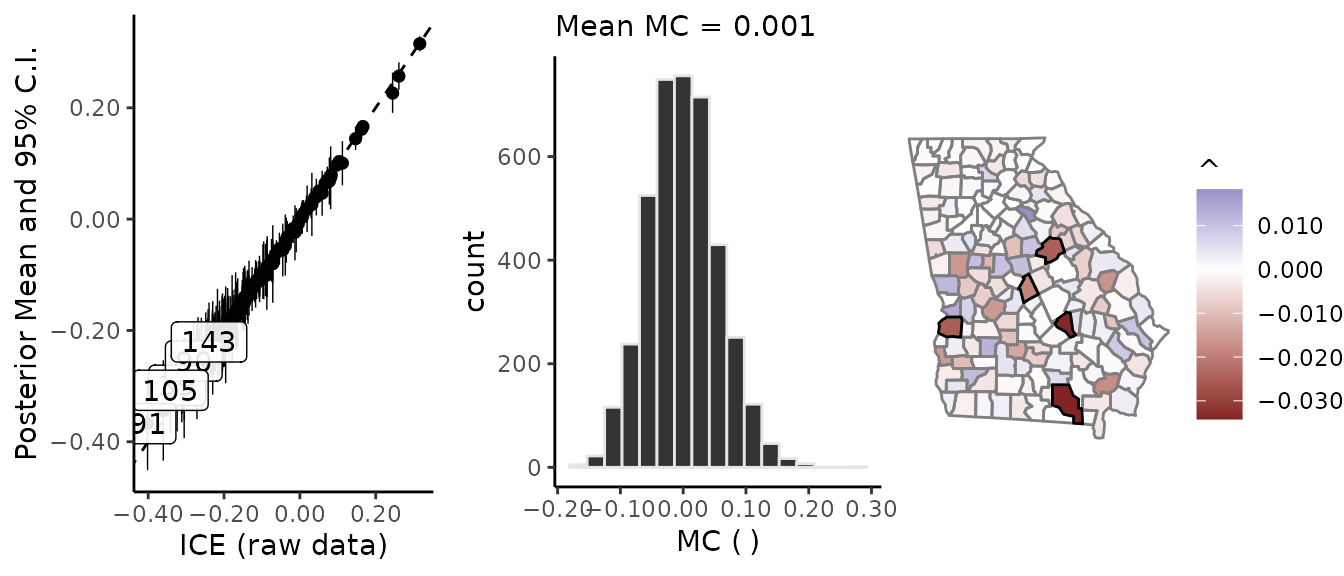
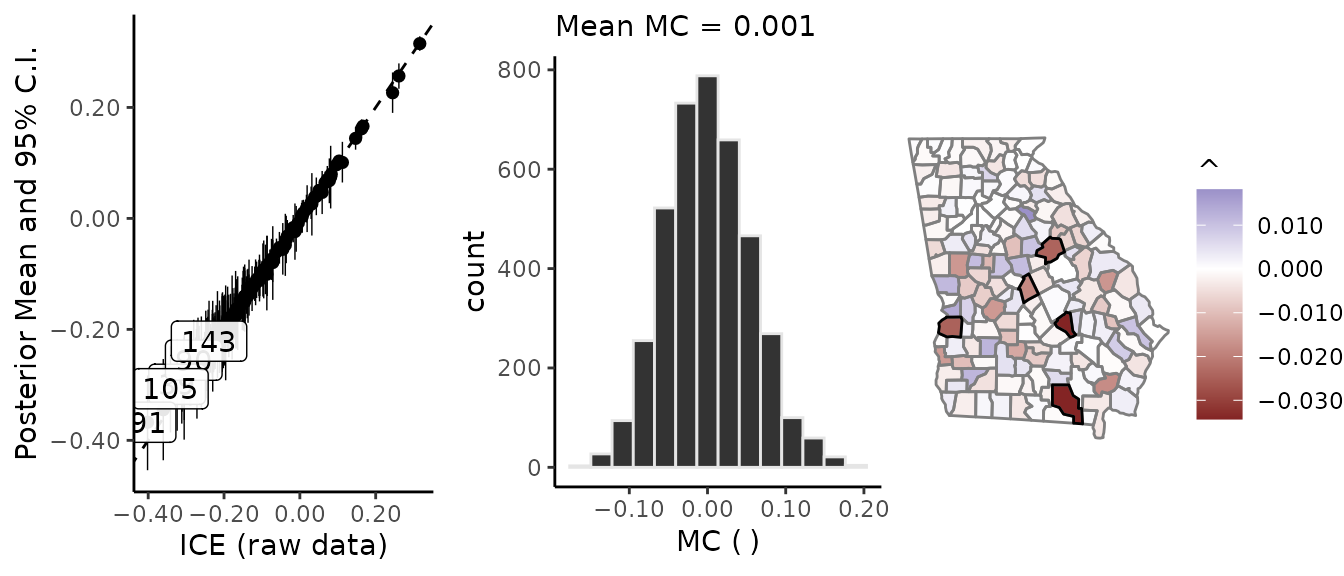
compiled vignette

diff --git a/docs/articles/spatial-me-models.html b/docs/articles/spatial-me-models.html
@@ -221,8 +221,8 @@
 ## 
 ## SAMPLING FOR MODEL 'foundation' NOW (CHAIN 1).
 ## Chain 1: 
-## Chain 1: Gradient evaluation took 0.000118 seconds
-## Chain 1: 1000 transitions using 10 leapfrog steps per transition would take 1.18 seconds.
+## Chain 1: Gradient evaluation took 0.00017 seconds
+## Chain 1: 1000 transitions using 10 leapfrog steps per transition would take 1.7 seconds.
 ## Chain 1: Adjust your expectations accordingly!
 ## Chain 1: 
 ## Chain 1: 
@@ -231,15 +231,15 @@
 ## Chain 1: Iteration: 1001 / 2000 [ 50%]  (Sampling)
 ## Chain 1: Iteration: 2000 / 2000 [100%]  (Sampling)
 ## Chain 1: 
-## Chain 1:  Elapsed Time: 1.29673 seconds (Warm-up)
-## Chain 1:                1.18586 seconds (Sampling)
-## Chain 1:                2.48259 seconds (Total)
+## Chain 1:  Elapsed Time: 2.20836 seconds (Warm-up)
+## Chain 1:                1.5902 seconds (Sampling)
+## Chain 1:                3.79855 seconds (Total)
 ## Chain 1: 
 ## 
 ## SAMPLING FOR MODEL 'foundation' NOW (CHAIN 2).
 ## Chain 2: 
-## Chain 2: Gradient evaluation took 9.7e-05 seconds
-## Chain 2: 1000 transitions using 10 leapfrog steps per transition would take 0.97 seconds.
+## Chain 2: Gradient evaluation took 0.000128 seconds
+## Chain 2: 1000 transitions using 10 leapfrog steps per transition would take 1.28 seconds.
 ## Chain 2: Adjust your expectations accordingly!
 ## Chain 2: 
 ## Chain 2: 
@@ -248,15 +248,15 @@
 ## Chain 2: Iteration: 1001 / 2000 [ 50%]  (Sampling)
 ## Chain 2: Iteration: 2000 / 2000 [100%]  (Sampling)
 ## Chain 2: 
-## Chain 2:  Elapsed Time: 1.50522 seconds (Warm-up)
-## Chain 2:                1.18719 seconds (Sampling)
-## Chain 2:                2.6924 seconds (Total)
+## Chain 2:  Elapsed Time: 1.90231 seconds (Warm-up)
+## Chain 2:                1.60992 seconds (Sampling)
+## Chain 2:                3.51223 seconds (Total)
 ## Chain 2: 
 ## 
 ## SAMPLING FOR MODEL 'foundation' NOW (CHAIN 3).
 ## Chain 3: 
-## Chain 3: Gradient evaluation took 0.000162 seconds
-## Chain 3: 1000 transitions using 10 leapfrog steps per transition would take 1.62 seconds.
+## Chain 3: Gradient evaluation took 0.000187 seconds
+## Chain 3: 1000 transitions using 10 leapfrog steps per transition would take 1.87 seconds.
 ## Chain 3: Adjust your expectations accordingly!
 ## Chain 3: 
 ## Chain 3: 
@@ -265,15 +265,15 @@
 ## Chain 3: Iteration: 1001 / 2000 [ 50%]  (Sampling)
 ## Chain 3: Iteration: 2000 / 2000 [100%]  (Sampling)
 ## Chain 3: 
-## Chain 3:  Elapsed Time: 1.68111 seconds (Warm-up)
-## Chain 3:                1.2015 seconds (Sampling)
-## Chain 3:                2.88261 seconds (Total)
+## Chain 3:  Elapsed Time: 1.85171 seconds (Warm-up)
+## Chain 3:                1.40342 seconds (Sampling)
+## Chain 3:                3.25513 seconds (Total)
 ## Chain 3: 
 ## 
 ## SAMPLING FOR MODEL 'foundation' NOW (CHAIN 4).
 ## Chain 4: 
-## Chain 4: Gradient evaluation took 9.9e-05 seconds
-## Chain 4: 1000 transitions using 10 leapfrog steps per transition would take 0.99 seconds.
+## Chain 4: Gradient evaluation took 0.000111 seconds
+## Chain 4: 1000 transitions using 10 leapfrog steps per transition would take 1.11 seconds.
 ## Chain 4: Adjust your expectations accordingly!
 ## Chain 4: 
 ## Chain 4: 
@@ -282,9 +282,9 @@
 ## Chain 4: Iteration: 1001 / 2000 [ 50%]  (Sampling)
 ## Chain 4: Iteration: 2000 / 2000 [100%]  (Sampling)
 ## Chain 4: 
-## Chain 4:  Elapsed Time: 1.61822 seconds (Warm-up)
-## Chain 4:                1.20999 seconds (Sampling)
-## Chain 4:                2.82822 seconds (Total)
+## Chain 4:  Elapsed Time: 1.85636 seconds (Warm-up)
+## Chain 4:                1.8386 seconds (Sampling)
+## Chain 4:                3.69496 seconds (Total)
 ## Chain 4:</code></pre>
 <p>Note that <code>prior_only = TRUE</code> will prevent <code>stan_glm</code> from considering the likelihood of the outcome, <code>log(rate.male)</code>; to facilitate a valid workflow, the entire ME model is treated as part of the “prior” by <code>prior_only</code>. This allows us to understand the properties of the ME model itself, considered independently from any outcome variable.</p>
 </div>
@@ -317,23 +317,23 @@
 <code class="sourceCode R"><span class="fu"><a href="../reference/me_diag.html">me_diag</a></span><span class="op">(</span><span class="va">fit</span>, <span class="st">'ICE'</span>, <span class="va">georgia</span>, index <span class="op">=</span> <span class="fl">5</span><span class="op">)</span></code></pre></div>
 <pre><code>## Identifying the top 5 observations as ordered by their Delta values (Delta = posterior mean of x - raw x value):</code></pre>
 <pre><code>##                 x.raw       x.mu      x.lwr      x.upr       Delta
-## x_ICE[91]  -0.4016787 -0.3674858 -0.4511550 -0.2837050 -0.03419285
-## x_ICE[105] -0.3412494 -0.3075664 -0.3849684 -0.2285629 -0.03368298
-## x_ICE[39]  -0.3236583 -0.2985129 -0.3814802 -0.2157464 -0.02514534
-## x_ICE[90]  -0.2798395 -0.2550659 -0.3276095 -0.1852030 -0.02477361
-## x_ICE[143] -0.2395249 -0.2206520 -0.2891585 -0.1498940 -0.01887287</code></pre>
+## x_ICE[91]  -0.4016787 -0.3673625 -0.4538293 -0.2830203 -0.03431619
+## x_ICE[105] -0.3412494 -0.3069745 -0.3857929 -0.2304210 -0.03427485
+## x_ICE[39]  -0.3236583 -0.2989770 -0.3826309 -0.2172894 -0.02468124
+## x_ICE[90]  -0.2798395 -0.2555373 -0.3268515 -0.1827792 -0.02430227
+## x_ICE[143] -0.2395249 -0.2212503 -0.2918625 -0.1483925 -0.01827460</code></pre>
 <p><img src="spatial-me-models_files/figure-html/unnamed-chunk-10-1.png" width="672" style="display: block; margin: auto;"></p>
 <p>Or, we can have <code>me_diag</code> return results as raw data (it will also return a list of <code>ggplots</code>):</p>
 <div class="sourceCode" id="cb30"><pre class="downlit sourceCode r">
 <code class="sourceCode R"><span class="va">delta</span> <span class="op">&lt;-</span> <span class="fu"><a href="../reference/me_diag.html">me_diag</a></span><span class="op">(</span><span class="va">fit</span>, <span class="st">'ICE'</span>, <span class="va">georgia</span>, plot <span class="op">=</span> <span class="cn">FALSE</span><span class="op">)</span><span class="op">$</span><span class="va">delta_data</span>
 <span class="fu"><a href="https://rdrr.io/r/utils/head.html" class="external-link">head</a></span><span class="op">(</span><span class="va">delta</span><span class="op">)</span></code></pre></div>
 <pre><code>##                x.raw        x.mu       x.lwr       x.upr         Delta
-## x_ICE[1] -0.24576780 -0.23648675 -0.29158580 -0.18141122 -9.281049e-03
-## x_ICE[2] -0.27540984 -0.26751005 -0.32056545 -0.21580127 -7.899791e-03
-## x_ICE[3] -0.01856313 -0.01810652 -0.03402589 -0.00209421 -4.566129e-04
-## x_ICE[4]  0.05059098  0.05053551  0.04302128  0.05814348  5.547813e-05
-## x_ICE[5]  0.14701110  0.14451589  0.12412486  0.16590852  2.495213e-03
-## x_ICE[6]  0.16649112  0.16624403  0.15779436  0.17442971  2.470821e-04</code></pre>
+## x_ICE[1] -0.24576780 -0.23654110 -0.28911611 -0.18349993 -0.0092266978
+## x_ICE[2] -0.27540984 -0.26759481 -0.32098478 -0.21443650 -0.0078150303
+## x_ICE[3] -0.01856313 -0.01799391 -0.03402179 -0.00243728 -0.0005692207
+## x_ICE[4]  0.05059098  0.05045357  0.04286484  0.05810458  0.0001374159
+## x_ICE[5]  0.14701110  0.14427309  0.12390030  0.16478096  0.0027380105
+## x_ICE[6]  0.16649112  0.16618239  0.15760980  0.17487681  0.0003087258</code></pre>
 <p>We can follow up on this information by examining demographic information on the counties with the largest <span class="math inline">\(\delta_i\)</span>:</p>
 <div class="sourceCode" id="cb32"><pre class="downlit sourceCode r">
 <code class="sourceCode R"><span class="va">georgia</span><span class="op">[</span><span class="fu"><a href="https://rdrr.io/r/base/c.html" class="external-link">c</a></span><span class="op">(</span><span class="fl">91</span>, <span class="fl">105</span>, <span class="fl">90</span>, <span class="fl">39</span><span class="op">)</span>, <span class="fu"><a href="https://rdrr.io/r/base/c.html" class="external-link">c</a></span><span class="op">(</span><span class="st">"NAME"</span>, <span class="st">"population"</span>, <span class="st">"white"</span>, <span class="st">"black"</span>, <span class="st">"hisp"</span>, <span class="st">"ai"</span>, <span class="st">"ICE"</span>, <span class="st">"ICE.se"</span>, <span class="st">"college"</span>, <span class="st">"college.se"</span><span class="op">)</span><span class="op">]</span></code></pre></div>
@@ -360,10 +360,10 @@
 ## 4 chains, each with iter=2000; warmup=1000; thin=1; 
 ## post-warmup draws per chain=1000, total post-warmup draws=4000.
 ## 
-##            mean se_mean   sd  2.5%   25%   50%   75% 97.5% n_eff Rhat
-## x_ICE[91] -0.37       0 0.04 -0.45 -0.39 -0.37 -0.34 -0.28  7675    1
+##            mean se_mean   sd  2.5%  25%   50%   75% 97.5% n_eff Rhat
+## x_ICE[91] -0.37       0 0.04 -0.45 -0.4 -0.37 -0.34 -0.28  9283    1
 ## 
-## Samples were drawn using NUTS(diag_e) at Tue Oct 12 18:34:35 2021.
+## Samples were drawn using NUTS(diag_e) at Sat Oct 23 10:15:29 2021.
 ## For each parameter, n_eff is a crude measure of effective sample size,
 ## and Rhat is the potential scale reduction factor on split chains (at 
 ## convergence, Rhat=1).</code></pre>
@@ -383,7 +383,7 @@
 <pre><code>## [1] 4000    1</code></pre>
 <div class="sourceCode" id="cb39"><pre class="downlit sourceCode r">
 <code class="sourceCode R"><span class="fu"><a href="https://rdrr.io/r/base/mean.html" class="external-link">mean</a></span><span class="op">(</span><span class="va">mu.x</span><span class="op">)</span></code></pre></div>
-<pre><code>## [1] -0.1285083</code></pre>
+<pre><code>## [1] -0.1318968</code></pre>
 <p>We can visualize these using <code>plot</code> or print a summary:</p>
 <div class="sourceCode" id="cb41"><pre class="downlit sourceCode r">
 <code class="sourceCode R"><span class="fu"><a href="https://rdrr.io/r/base/print.html" class="external-link">print</a></span><span class="op">(</span><span class="va">fit</span><span class="op">$</span><span class="va">stanfit</span>, pars <span class="op">=</span> <span class="fu"><a href="https://rdrr.io/r/base/c.html" class="external-link">c</a></span><span class="op">(</span><span class="st">"mu_x_true"</span>, <span class="st">"car_rho_x_true"</span>, <span class="st">"sigma_x_true"</span><span class="op">)</span><span class="op">)</span></code></pre></div>
@@ -392,11 +392,11 @@
 ## post-warmup draws per chain=1000, total post-warmup draws=4000.
 ## 
 ##                    mean se_mean   sd  2.5%   25%   50%   75% 97.5% n_eff Rhat
-## mu_x_true[1]      -0.13       0 0.08 -0.28 -0.16 -0.13 -0.10  0.04  2114    1
-## car_rho_x_true[1]  0.97       0 0.02  0.92  0.96  0.98  0.99  1.00  4021    1
-## sigma_x_true[1]    0.20       0 0.01  0.18  0.19  0.20  0.21  0.23  7671    1
+## mu_x_true[1]      -0.13       0 0.08 -0.30 -0.17 -0.13 -0.10  0.03  1772    1
+## car_rho_x_true[1]  0.97       0 0.02  0.91  0.96  0.98  0.99  1.00  3609    1
+## sigma_x_true[1]    0.20       0 0.01  0.18  0.19  0.20  0.21  0.23  8111    1
 ## 
-## Samples were drawn using NUTS(diag_e) at Tue Oct 12 18:34:35 2021.
+## Samples were drawn using NUTS(diag_e) at Sat Oct 23 10:15:29 2021.
 ## For each parameter, n_eff is a crude measure of effective sample size,
 ## and Rhat is the potential scale reduction factor on split chains (at 
 ## convergence, Rhat=1).</code></pre>
@@ -410,7 +410,7 @@
 <code class="sourceCode R"><span class="va">x.mu</span> <span class="op">&lt;-</span> <span class="fu"><a href="https://rdrr.io/r/base/apply.html" class="external-link">apply</a></span><span class="op">(</span><span class="va">x</span>, <span class="fl">2</span>, <span class="va">mean</span><span class="op">)</span>
 <span class="fu"><a href="https://rdrr.io/r/utils/head.html" class="external-link">head</a></span><span class="op">(</span><span class="va">x.mu</span><span class="op">)</span></code></pre></div>
 <pre><code>##    x_ICE[1]    x_ICE[2]    x_ICE[3]    x_ICE[4]    x_ICE[5]    x_ICE[6] 
-## -0.23648675 -0.26751005 -0.01810652  0.05053551  0.14451589  0.16624403</code></pre>
+## -0.23654110 -0.26759481 -0.01799391  0.05045357  0.14427309  0.16618239</code></pre>
 </div>
 </div>
 <div id="non-spatial-me-models" class="section level2">
@@ -464,8 +464,8 @@
 ## Spatial method (outcome):  Exchangeable 
 ## Likelihood function:  poisson 
 ## Link function:  log 
-## Residual Moran Coefficient:  0.0359325 
-## WAIC:  1316.73 
+## Residual Moran Coefficient:  0.0357165 
+## WAIC:  1317.28 
 ## Observations:  159 
 ## Data models (ME): ICE
 ##  Data model (ME prior): CAR (auto Gaussian)
@@ -474,11 +474,11 @@
 ## post-warmup draws per chain=1000, total post-warmup draws=4000.
 ## 
 ##             mean se_mean    sd   2.5%    25%    50%    75%  97.5% n_eff  Rhat
-## intercept -4.384   0.001 0.017 -4.417 -4.395 -4.384 -4.373 -4.352   670 1.009
-## ICE       -1.709   0.003 0.101 -1.903 -1.780 -1.710 -1.643 -1.504   832 1.004
-## alpha_tau  0.124   0.000 0.011  0.103  0.116  0.123  0.131  0.147  1659 1.002
+## intercept -4.385   0.001 0.017 -4.418 -4.396 -4.385 -4.373 -4.353   660 1.002
+## ICE       -1.711   0.004 0.101 -1.911 -1.778 -1.712 -1.642 -1.514   787 1.002
+## alpha_tau  0.123   0.000 0.011  0.103  0.116  0.123  0.131  0.147  1491 0.999
 ## 
-## Samples were drawn using NUTS(diag_e) at Tue Oct 12 18:34:58 2021.
+## Samples were drawn using NUTS(diag_e) at Sat Oct 23 10:15:59 2021.
 ## For each parameter, n_eff is a crude measure of effective sample size,
 ## and Rhat is the potential scale reduction factor on split chains (at 
 ## convergence, Rhat=1).</code></pre>

diff --git a/docs/reference/sim_sar.html b/docs/reference/sim_sar.html
@@ -202,13 +202,13 @@
 <span class='r-in'><span class='va'>w</span> <span class='op'>&lt;-</span> <span class='fu'><a href='shape2mat.html'>shape2mat</a></span><span class='op'>(</span><span class='va'>georgia</span>, <span class='st'>"W"</span><span class='op'>)</span></span>
 <span class='r-in'><span class='va'>x</span> <span class='op'>&lt;-</span> <span class='fu'>sim_sar</span><span class='op'>(</span>w <span class='op'>=</span> <span class='va'>w</span>, rho <span class='op'>=</span> <span class='fl'>0.5</span><span class='op'>)</span></span>
 <span class='r-in'><span class='fu'><a href='aple.html'>aple</a></span><span class='op'>(</span><span class='va'>x</span>, <span class='va'>w</span><span class='op'>)</span></span>
-<span class='r-out co'><span class='r-pr'>#&gt;</span> [1] 0.477</span>
+<span class='r-out co'><span class='r-pr'>#&gt;</span> [1] 0.605</span>
 <span class='r-in'></span>
 <span class='r-in'><span class='va'>x</span> <span class='op'>&lt;-</span> <span class='fu'>sim_sar</span><span class='op'>(</span>w <span class='op'>=</span> <span class='va'>w</span>, rho <span class='op'>=</span> <span class='fl'>0.7</span>, m <span class='op'>=</span> <span class='fl'>4</span><span class='op'>)</span></span>
 <span class='r-in'><span class='fu'><a href='https://rdrr.io/r/base/dim.html'>dim</a></span><span class='op'>(</span><span class='va'>x</span><span class='op'>)</span></span>
 <span class='r-out co'><span class='r-pr'>#&gt;</span> [1]   4 159</span>
 <span class='r-in'><span class='fu'><a href='https://rdrr.io/r/base/apply.html'>apply</a></span><span class='op'>(</span><span class='va'>x</span>, <span class='fl'>1</span>, <span class='va'>aple</span>, w <span class='op'>=</span> <span class='va'>w</span><span class='op'>)</span></span>
-<span class='r-out co'><span class='r-pr'>#&gt;</span> [1] 0.648 0.696 0.624 0.717</span>
+<span class='r-out co'><span class='r-pr'>#&gt;</span> [1] 0.650 0.540 0.542 0.775</span>
 <span class='r-in'></span>
 </code></pre></div>
   </div>

diff --git a/docs/reference/se_log.html b/docs/reference/se_log.html
@@ -204,9 +204,9 @@
 <span class='r-in'><span class='va'>z</span> <span class='op'>=</span> <span class='fu'><a href='https://rdrr.io/r/stats/Normal.html'>rnorm</a></span><span class='op'>(</span>n <span class='op'>=</span> <span class='fl'>30e3</span>, mean <span class='op'>=</span> <span class='va'>x</span>,  sd <span class='op'>=</span> <span class='va'>se</span><span class='op'>)</span></span>
 <span class='r-in'><span class='va'>l.z</span> <span class='op'>=</span> <span class='fu'><a href='https://rdrr.io/r/base/Log.html'>log</a></span><span class='op'>(</span><span class='va'>z</span><span class='op'>)</span></span>
 <span class='r-in'><span class='fu'><a href='https://rdrr.io/r/stats/sd.html'>sd</a></span><span class='op'>(</span><span class='va'>l.z</span><span class='op'>)</span></span>
-<span class='r-out co'><span class='r-pr'>#&gt;</span> [1] 0.2115323</span>
+<span class='r-out co'><span class='r-pr'>#&gt;</span> [1] 0.211372</span>
 <span class='r-in'><span class='fu'>se_log</span><span class='op'>(</span><span class='va'>x</span>, <span class='va'>se</span>, method <span class='op'>=</span> <span class='st'>"mc"</span><span class='op'>)</span></span>
-<span class='r-out co'><span class='r-pr'>#&gt;</span> [1] 0.2072991</span>
+<span class='r-out co'><span class='r-pr'>#&gt;</span> [1] 0.2140873</span>
 <span class='r-in'><span class='fu'>se_log</span><span class='op'>(</span><span class='va'>x</span>, <span class='va'>se</span>, method <span class='op'>=</span> <span class='st'>"delta"</span><span class='op'>)</span></span>
 <span class='r-out co'><span class='r-pr'>#&gt;</span> [1] 0.2</span>
 <span class='r-in'></span>

diff --git a/docs/reference/stan_car.html b/docs/reference/stan_car.html
@@ -440,7 +440,9 @@
 <span class='r-in'> <span class='fu'><a href='https://ggplot2.tidyverse.org/reference/scale_gradient.html'>scale_fill_gradient2</a></span><span class='op'>(</span></span>
 <span class='r-in'>   midpoint <span class='op'>=</span> <span class='fl'>0</span>,</span>
 <span class='r-in'>   name <span class='op'>=</span> <span class='cn'>NULL</span>,</span>
-<span class='r-in'>   breaks <span class='op'>=</span> <span class='fu'><a href='https://rdrr.io/r/base/seq.html'>seq</a></span><span class='op'>(</span><span class='op'>-</span><span class='fl'>3</span>, <span class='fl'>3</span>, by <span class='op'>=</span> <span class='fl'>0.5</span><span class='op'>)</span></span>
+<span class='r-in'>   breaks <span class='op'>=</span> <span class='fu'><a href='https://rdrr.io/r/base/seq.html'>seq</a></span><span class='op'>(</span><span class='op'>-</span><span class='fl'>3</span>, <span class='fl'>3</span>, by <span class='op'>=</span> <span class='fl'>0.5</span><span class='op'>)</span>,</span>
+<span class='r-in'>   low <span class='op'>=</span> <span class='st'>"navy"</span>,</span>
+<span class='r-in'>   high <span class='op'>=</span> <span class='st'>"darkred"</span></span>
 <span class='r-in'>   <span class='op'>)</span> <span class='op'>+</span></span>
 <span class='r-in'> <span class='fu'><a href='https://ggplot2.tidyverse.org/reference/labs.html'>labs</a></span><span class='op'>(</span>title <span class='op'>=</span> <span class='st'>"Log-Standardized Sentencing Ratios"</span>,</span>
 <span class='r-in'>      subtitle <span class='op'>=</span> <span class='st'>"log( Fitted/Expected ), base 2"</span></span>

diff --git a/docs/news/index.html b/docs/news/index.html
@@ -149,6 +149,11 @@
       <small>Source: <a href='https://github.com/ConnorDonegan/geostan/blob/master/NEWS.md'><code>NEWS.md</code></a></small>
     </div>
 
+    <div id="geostan-011" class="section level1">
+<h1 class="page-header" data-toc-text="0.1.1">
+<a href="#geostan-011" class="anchor" aria-hidden="true"></a>geostan 0.1.1</h1>
+<p>The stan files for the CAR model have been combined with the ‘foundation.stan’ file, which compresses the file size considerably. The vignette on spatial autocorrelation has also been updated to include model diagnostics.</p>
+</div>
     <div id="geostan-010" class="section level1">
 <h1 class="page-header" data-toc-text="0.1.0">
 <a href="#geostan-010" class="anchor" aria-hidden="true"></a>geostan 0.1.0</h1>

diff --git a/NEWS.md b/NEWS.md
@@ -1,3 +1,7 @@
+# geostan 0.1.1
+
+The stan files for the CAR model have been combined with the 'foundation.stan' file, which compresses the file size considerably. The vignette on spatial autocorrelation has also been updated to include model diagnostics.
+
 # geostan 0.1.0
 
 geostan's first release
